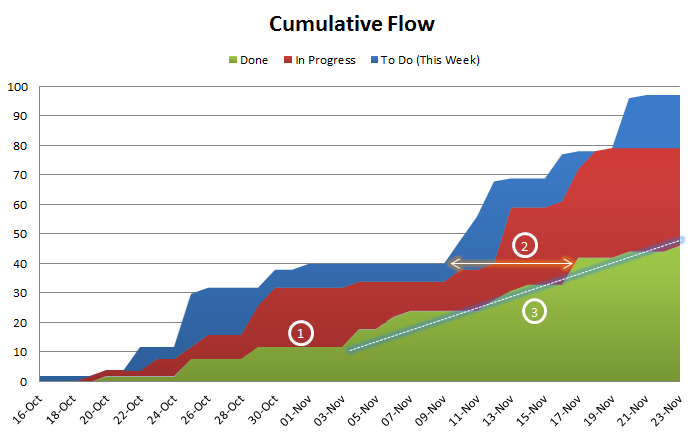
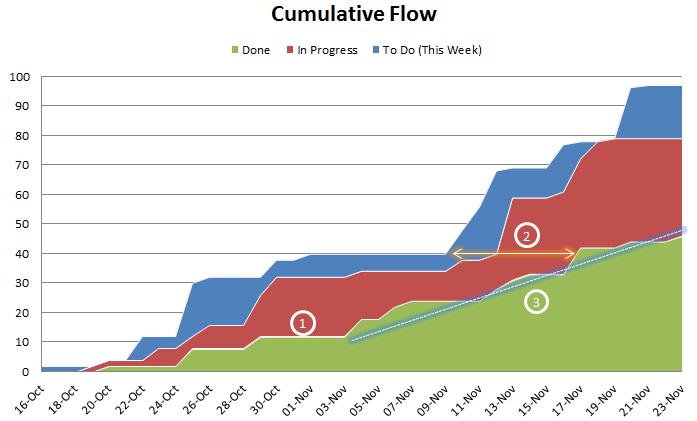
Figure formatting and redraw cumulative flow

diff --git a/report/report.tex b/report/report.tex
@@ -78,13 +78,12 @@ prompts are shown.
 As part of the renovation of the William Penney Building, the part of the building facing onto the Sherfield walkway will be undergoing major changes in order to further promote the home of the Imperial Data Science Institute. These changes include mounting an 84 inch 4K touch panel adjacent to the building's entrance, as well as replacing the existing small windows with floor to ceiling glass panel, onto which content can be projected to the hundreds of students, teaching staff and visitors who pass by everyday via eight HD projectors.
 
 \begin{figure}[h!]
-\centering
 \begin{subfigure}{.5\textwidth}
   \centering
   \includegraphics[width=.9\linewidth]{./intro/Entrance.jpg}
   \caption{Entrance}
   \label{fig:sub1}
-\end{subfigure}%
+\end{subfigure}
 \begin{subfigure}{.5\textwidth}
   \centering
   \includegraphics[width=.9\linewidth]{./intro/External.jpg}
@@ -119,9 +118,9 @@ From the initial project specification, and discussion with our supervisor(s), w
 
 These however did not remain completely static and would change/be added to, based on subsequent discussions with our supervisor(s), as we 'pivoted' towards the best solution.
 
-\begin{figure}[h]
+\begin{figure}[h!]
   \centering
-    \includegraphics[width = 0.55\textwidth, trim = 0 0.5cm 0 1.2cm, clip]{./intro/userreq.jpg}
+    \includegraphics[width = 0.5\textwidth, trim = 0 0.5cm 0 1.2cm, clip]{./intro/userreq.jpg}
   \caption{Illustration of initial project specification}
   \label{fig:intro_userreq}
 \end{figure}
@@ -165,6 +164,7 @@ As these users will be using the system most, and the components they interact w
 
 \textbf{Requirements}
 \begin{itemize}
+\itemsep-1mm
 \item Approve or reject submitted content
 \item Choose content to be selected for playback, along with relative priorities and times in which to be shown
 \end{itemize}
@@ -177,6 +177,7 @@ Furthermore they should be able to submit content of their own, which after mode
 
 \textbf{Requirements}
 \begin{itemize}
+\itemsep-1mm
 \item View moderated content and interact in a visual and intuitive way
 \item 'Like' and comment on content items
 \item Submit content to be selected for playback
@@ -190,6 +191,7 @@ Whilst they don't need a large amount of input through the development process, 
 
 \textbf{Requirements}
 \begin{itemize}
+\itemsep-1mm
 \item View projected content
 \item 'Like' or vote for interesting visualisations
 \item See an ever-changing screen
@@ -232,14 +234,14 @@ In light of these constraints, we have decided to commit to the following:
         obtain maximum possible feedback from our supervisor, who act as our client.
   \item \textbf{To strictly adhere to the original project scope}: while we believe the
         current scope is manageable, we would reject time-consuming items which
-        are out of scope before a minimal working system, as mentioned in section ??, is implemented.
+        are out of scope before a minimal working system, as specified in section \ref{sec:intro_objectives}, is implemented.
 \end{enumerate}
 
 \subsubsection{Release \& Iteration Plans}
 
-\begin{figure}[h]
+\begin{figure}[h!]
   \centering
-    \includegraphics[width = 0.99\textwidth]{./projman/timeline.jpg}
+    \includegraphics[width = 0.99\textwidth, trim = 0 3.8cm 0 0.8cm, clip]{./projman/timeline.jpg}
   \caption{Project plan with timeline}
   \label{fig:projman_timeline}
 \end{figure}
@@ -254,7 +256,7 @@ high level themes to be implemented (towards the right). Each line segment at
 the bottom represents an iteration ending on Thursday, when the development
 team will meet with the client.
 
-\begin{table}[h]
+\begin{table}[h!]
   \begin{center}
   \begin{tabular}{c | c | c}
      \textbf{Academic Week (ending date)} & \textbf{Iteration/Sprint} & \textbf{Feature to Release} \\ \hline
@@ -272,7 +274,7 @@ team will meet with the client.
   \label{tab:projman_rplan}
 \end{table}
 
-\begin{table}[h]
+\begin{table}[h!]
   \begin{tabular}{c | c | c | c }
     \textbf{Iteration} & 1 & 2 & 3 \\ \hline
    \textbf{Tasks} & Front-page \& Grid view & Individual vis$^\textrm{n}$ page template & View/controller hookup\\
@@ -334,7 +336,7 @@ Towards the end of the project, we used the issue tracker on Gitlab to let the g
 Although these could be assigned to a specific member, we left them open to the group, so an
 appropriate team member could address the issue. 
 
-\begin{figure}[h]
+\begin{figure}[h!]
   \centering
     \includegraphics[width = 0.99\textwidth]{./projman/issue_page.png}
   \caption{Small section of the issue tracker on Gitlab}
@@ -378,7 +380,7 @@ following characteristics:
 \end{itemize}
 
 
-\begin{figure}[ht]
+\begin{figure}[h!]
   \centering
     \includegraphics[width = 0.99\textwidth, trim= 0 0 0 3cm, clip]{./projman/scrum.jpg}
   \caption{Half-weekly ``scrum'' (development team meeting).}
@@ -402,12 +404,7 @@ We also integrate a few technical practices inspired by Extreme Programming:
 
 \subsubsection{Project Tracking} \label{sec:projman_tracking}
 
-Finally, to keep track on the group's progress, we use an electronic task
-board on Trello (see figure \ref{fig:trello}). Here we can assign ourselves (and others) specific tasks and a general due date. Trello allows us to see what the other members of the group are doing and when a feature is expected to be completed. We can also easily add photos and checklists to see how the project is forming. We decided to use Trello as a physical story-board is not feasible. As well as Trello, we were constantly communicating personally in labs, online via messaging services (mainly Facebook Messenger), and regular stand-ups in a meeting room.
-
-We chose to incorporate this into our way of working, as one of the team members, Andrew, had been involved in projects using Trello, and found it very useful to visualise the work being done on a project.
-
-\begin{figure}[ht]
+\begin{figure}[h!]
   \begin{subfigure}{0.5\textwidth}
     \centering
     \includegraphics[width = 0.9\textwidth]{./eval/trello-columns.png}
@@ -422,12 +419,18 @@ We chose to incorporate this into our way of working, as one of the team members
   \label{fig:eval_trello}
 \end{figure}
 
+Finally, to keep track on the group's progress, we use an electronic task
+board on Trello (see figure \ref{fig:eval_trello}). Here we can assign ourselves (and others) specific tasks and a general due date. Trello allows us to see what the other members of the group are doing and when a feature is expected to be completed. We can also easily add photos and checklists to see how the project is forming. We decided to use Trello as a physical story-board is not feasible. As well as Trello, we were constantly communicating personally in labs, online via messaging services (mainly Facebook Messenger), and regular stand-ups in a meeting room.
+
+We chose to incorporate this into our way of working, as one of the team members, Andrew, had been involved in projects using Trello, and found it very useful to visualise the work being done on a project.
+
+
 \subsection{Development Tools}
 We have also employed a variety of tools in parallel of our technologies used
 in main implementation, illustrated in figure \ref{fig:projman_devtools}, to
 enhance our performance.
 
-\begin{figure}[ht]
+\begin{figure}[h!]
   \centering
     \includegraphics[width = 0.99\textwidth]{./projman/devtools.pdf}
   \caption{Development methods and tools utilised in project.}
@@ -592,7 +595,7 @@ made use of customised ``Web Kits''.
 
 \subsubsection{Architecture}
 
-\begin{figure}[ht]
+\begin{figure}[h!]
   \centering
 %    \includegraphics[width = 0.99\textwidth]{./impl/architecture.jpg}
   \caption{System architecture for the AppStore}
@@ -604,7 +607,7 @@ made use of customised ``Web Kits''.
 
 \subsubsection{Models}
 
-\begin{figure}[ht]
+\begin{figure}[h!]
   \centering
 %    \includegraphics[width = 0.99\textwidth]{./impl/models.jpg}
   \caption{Models of entities and resources in system and their relationship}
@@ -702,7 +705,7 @@ our routing and API on the server, logged in as admins, non-admins, and not logg
 \subsubsection{From Java Scheduling to Ruby Scheduling}
 % Translation on scheduling from Java to Ruby
 
-\begin{figure}[ht]
+\begin{figure}[h!]
   \begin{minipage}{0.49\textwidth}
 %    \includegraphics[width = 0.99\textwidth]{./impl/java_scheduling.jpg}
   \end{minipage}
@@ -740,7 +743,7 @@ In the following weeks, we then clarified and expanded on these requirements as 
 
 We also further clarified our understanding of stakeholders and how our system creates value for them via multiple value proposition canvasses. Figure \ref{fig:eval_valpropcanvas} shows the canvas for the Imperial Data Science Institute, which our supervisor is associated with. It includes a customer profile with a list of jobs, gains and pains, and corresponding products/services, gain creators and pain relievers (value map). The gains/pains of the institute, along with their creators/relievers are as follows:
 
-\begin{figure}[ht]
+\begin{figure}[h!]
    \begin{center}
       \includegraphics[width = 0.9\textwidth, trim = 1cm 6.5cm 1cm 4.5cm, clip]{./eval/value_prop_canvas.jpg}
    \end{center}
@@ -780,7 +783,7 @@ Where customer relationships are concerned, we see our most important stakeholde
 
 We tended to keep discussions fairly high-level, and only discussed implementation details/technologies when asked to do so, or when we felt that it was important to the discussion. We did this to mimic the scenario of David being our client, but also to ensure that discussions were not biased towards any kind of implementation, allowing us to fit our implementation around the best ideas, and not the other way around.
 
-\begin{figure}[ht]
+\begin{figure}[h!]
   \begin{subfigure}{0.5\textwidth}
     \centering
     \includegraphics[width = 0.9\textwidth, trim = 0 0.4cm 0 1.6cm, clip]{./eval/meeting-board2.jpg}
@@ -856,7 +859,7 @@ However, not all spikes bring good news - investigation on Kerberos login librar
 	
 Quantitatively, we evaluated our project by tracking how fast we were ticking off our initial requirements. Using our Trello board and version control system, we can easily see by whom and at what time each feature has been implemented. By combining these with our estimates of the size of each task, we are able to analyse the group's performance via a Cumulative Flow Diagram (Figure \ref{fig:eval_cumuflow}).
 
-\begin{figure}[ht]
+\begin{figure}[h!]
   \centering
     \includegraphics[width = 0.99\textwidth]{./eval/cumu_flow.png}
   \caption{Cumulative flow diagram for our team based on tasks' status}
@@ -890,7 +893,7 @@ Once we have settled on a general design, we complete the main implementation of
 
 We also made sure that this prototype is seeded with some dummy/representative data in some way, so that it is clear how each part of the project will operate in practice.
 
-\begin{figure}[ht]
+\begin{figure}[h!]
    \begin{center}
       \includegraphics[width = 0.9\textwidth, trim = 0 0 0 0cm, clip]{./eval/mockup.png}
    \end{center}
@@ -904,7 +907,7 @@ Compared to UIs which users can see and feel, we believed that uncovering the cl
 
 Throughout these discussions, we uncovered several assumptions made by our supervisor, one of which is expecting the scheduling algorithm to ensure that playout time is directly proportional to metric set by administrators. In response, we have created additional unit tests to incorporate such requirements in our scheduling algorithm.
 
-\begin{figure}[ht]
+\begin{figure}[h!]
   \begin{minipage}{0.46\textwidth}
       \includegraphics[width = 0.99\textwidth, trim = 0 1cm 0 1.5cm, clip]{./eval/scheduling_whiteboard.jpg}
   \end{minipage}
